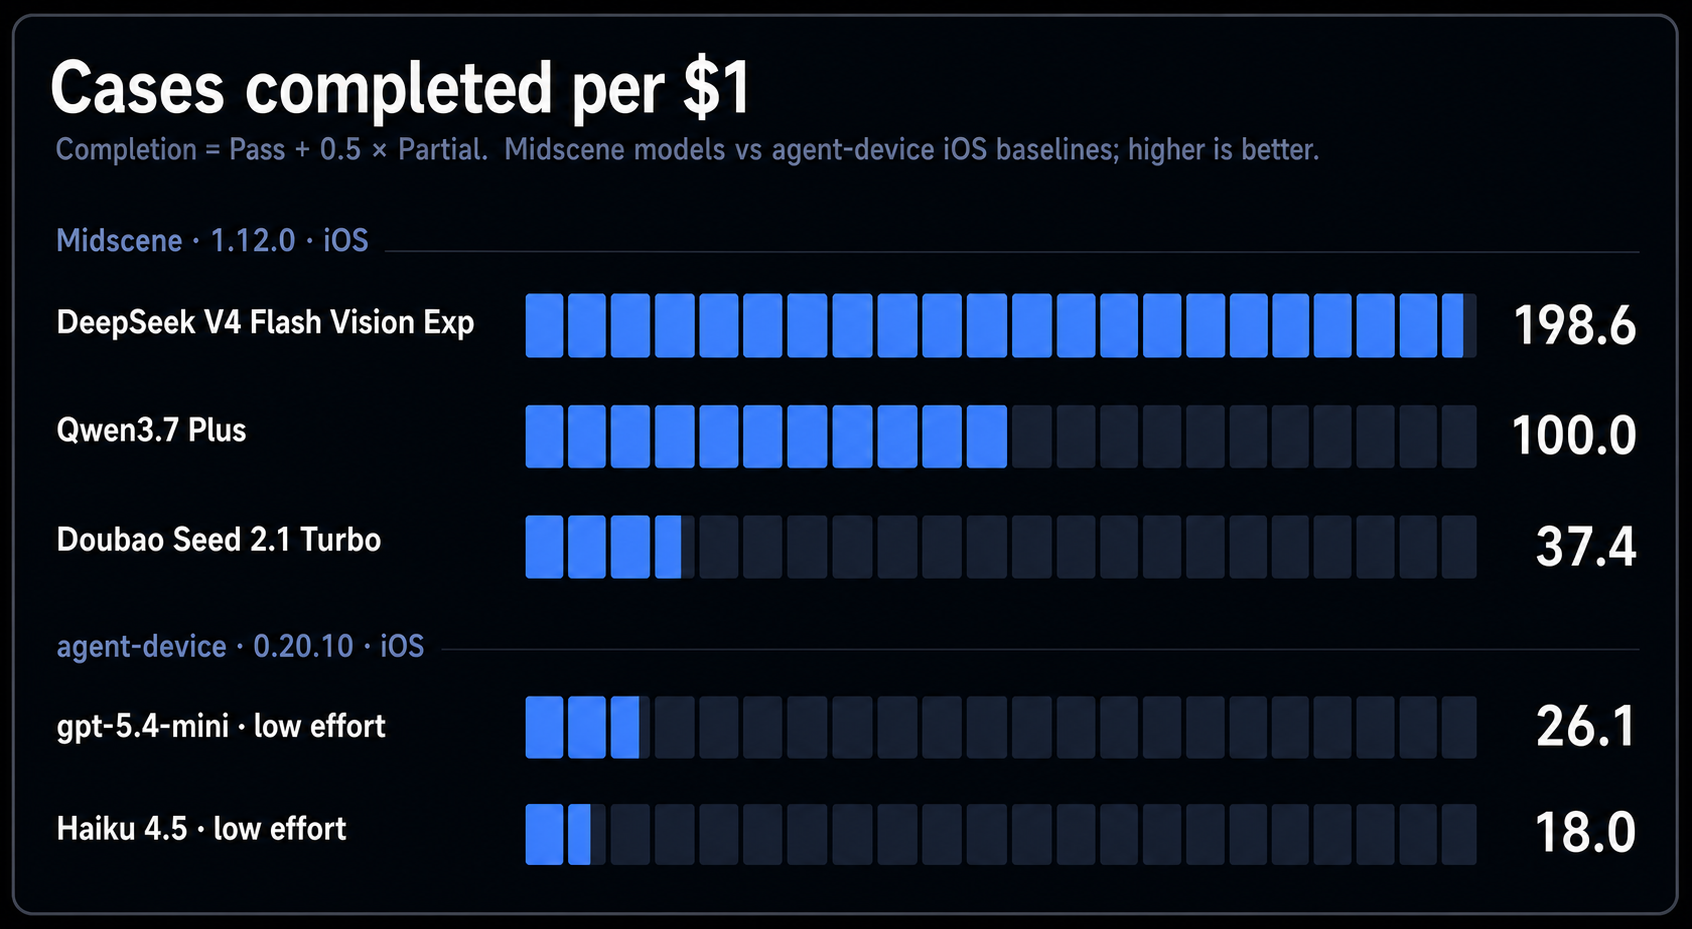
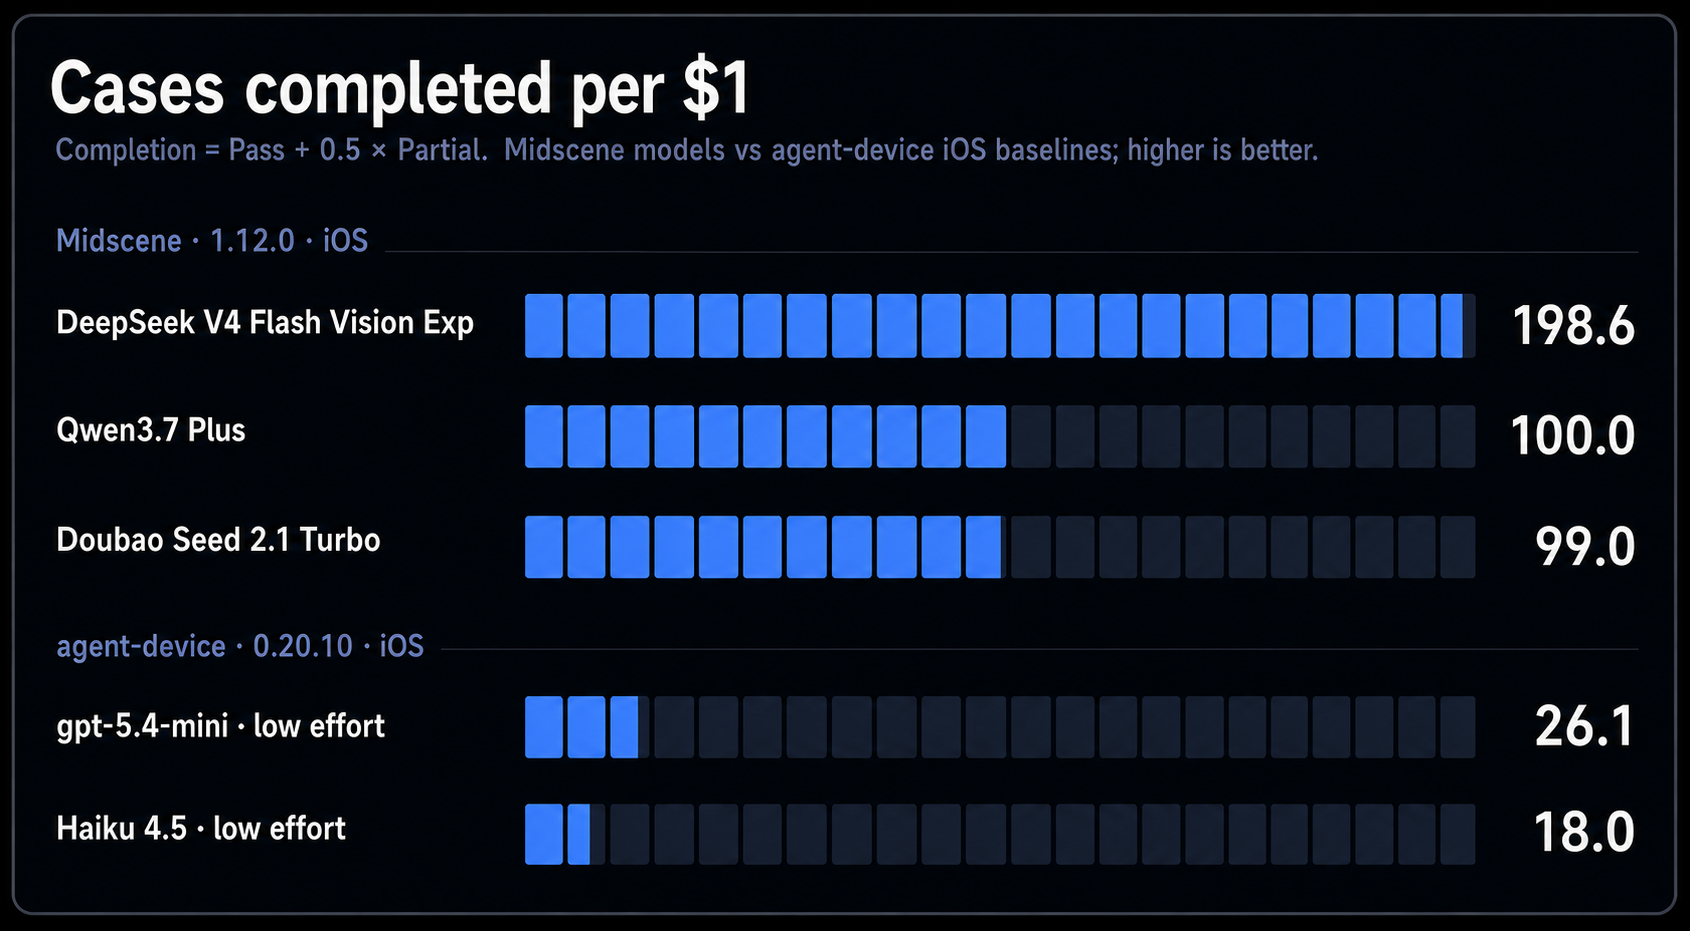
docs(site): use official Doubao pricing

diff --git a/apps/site/theme/components/app-control-bench-data.ts b/apps/site/theme/components/app-control-bench-data.ts
@@ -41,214 +41,219 @@ export const APP_CONTROL_BENCH_RUNS = [
       passCount: 58,
       partialCount: 1,
       failCount: 1,
-      totalUsd: 1.563245,
-      totalCny: 10.630066,
+      totalUsd: 0.591189,
+      totalCny: 4.020089,
     },
     tasks: [
-      { name: 'bsky-01', status: 'Pass', costUsd: 0.010709, costCny: 0.072821 },
-      { name: 'bsky-02', status: 'Pass', costUsd: 0.010704, costCny: 0.072787 },
-      { name: 'bsky-03', status: 'Pass', costUsd: 0.021735, costCny: 0.147798 },
-      { name: 'bsky-04', status: 'Pass', costUsd: 0.016339, costCny: 0.111105 },
-      { name: 'bsky-05', status: 'Pass', costUsd: 0.010782, costCny: 0.073318 },
-      { name: 'bsky-06', status: 'Pass', costUsd: 0.010927, costCny: 0.074304 },
-      { name: 'bsky-07', status: 'Pass', costUsd: 0.010864, costCny: 0.073875 },
-      { name: 'bsky-08', status: 'Pass', costUsd: 0.033915, costCny: 0.230622 },
-      { name: 'bsky-09', status: 'Pass', costUsd: 0.021985, costCny: 0.149498 },
-      { name: 'bsky-10', status: 'Pass', costUsd: 0.016428, costCny: 0.11171 },
-      { name: 'bsky-11', status: 'Pass', costUsd: 0.010665, costCny: 0.072522 },
-      { name: 'bsky-12', status: 'Pass', costUsd: 0.010699, costCny: 0.072753 },
-      { name: 'bsky-13', status: 'Pass', costUsd: 0.010715, costCny: 0.072862 },
-      { name: 'bsky-14', status: 'Pass', costUsd: 0.027723, costCny: 0.188516 },
-      { name: 'bsky-15', status: 'Pass', costUsd: 0.027758, costCny: 0.188754 },
-      { name: 'bsky-16', status: 'Pass', costUsd: 0.060796, costCny: 0.413413 },
-      { name: 'bsky-17', status: 'Pass', costUsd: 0.016237, costCny: 0.110412 },
-      { name: 'bsky-18', status: 'Pass', costUsd: 0.010649, costCny: 0.072413 },
-      { name: 'bsky-19', status: 'Pass', costUsd: 0.02188, costCny: 0.148784 },
-      { name: 'bsky-20', status: 'Pass', costUsd: 0.021912, costCny: 0.149002 },
-      { name: 'bsky-21', status: 'Pass', costUsd: 0.016242, costCny: 0.110446 },
-      { name: 'bsky-22', status: 'Pass', costUsd: 0.010634, costCny: 0.072311 },
-      { name: 'bsky-23', status: 'Pass', costUsd: 0.016158, costCny: 0.109874 },
-      { name: 'bsky-24', status: 'Pass', costUsd: 0.022026, costCny: 0.149777 },
-      { name: 'bsky-25', status: 'Fail', costUsd: 0.021704, costCny: 0.147587 },
-      { name: 'bsky-26', status: 'Pass', costUsd: 0.039553, costCny: 0.26896 },
-      { name: 'bsky-27', status: 'Pass', costUsd: 0.046112, costCny: 0.313562 },
-      { name: 'bsky-28', status: 'Pass', costUsd: 0.021821, costCny: 0.148383 },
-      { name: 'bsky-29', status: 'Pass', costUsd: 0.021806, costCny: 0.148281 },
-      { name: 'bsky-30', status: 'Pass', costUsd: 0.028036, costCny: 0.190645 },
+      { name: 'bsky-01', status: 'Pass', costUsd: 0.003806, costCny: 0.025883 },
+      { name: 'bsky-02', status: 'Pass', costUsd: 0.003802, costCny: 0.025853 },
+      { name: 'bsky-03', status: 'Pass', costUsd: 0.007892, costCny: 0.053665 },
+      { name: 'bsky-04', status: 'Pass', costUsd: 0.005953, costCny: 0.040482 },
+      { name: 'bsky-05', status: 'Pass', costUsd: 0.003871, costCny: 0.026324 },
+      { name: 'bsky-06', status: 'Pass', costUsd: 0.003999, costCny: 0.027194 },
+      { name: 'bsky-07', status: 'Pass', costUsd: 0.003944, costCny: 0.026816 },
+      { name: 'bsky-08', status: 'Pass', costUsd: 0.012998, costCny: 0.088389 },
+      { name: 'bsky-09', status: 'Pass', costUsd: 0.008115, costCny: 0.05518 },
+      { name: 'bsky-10', status: 'Pass', costUsd: 0.006033, costCny: 0.041022 },
+      { name: 'bsky-11', status: 'Pass', costUsd: 0.003768, costCny: 0.025625 },
+      { name: 'bsky-12', status: 'Pass', costUsd: 0.003798, costCny: 0.025826 },
+      { name: 'bsky-13', status: 'Pass', costUsd: 0.003812, costCny: 0.025922 },
+      { name: 'bsky-14', status: 'Pass', costUsd: 0.010357, costCny: 0.070427 },
+      { name: 'bsky-15', status: 'Pass', costUsd: 0.010388, costCny: 0.07064 },
+      { name: 'bsky-16', status: 'Pass', costUsd: 0.023987, costCny: 0.163112 },
+      { name: 'bsky-17', status: 'Pass', costUsd: 0.005864, costCny: 0.039873 },
+      { name: 'bsky-18', status: 'Pass', costUsd: 0.003755, costCny: 0.025535 },
+      { name: 'bsky-19', status: 'Pass', costUsd: 0.00802, costCny: 0.054535 },
+      { name: 'bsky-20', status: 'Pass', costUsd: 0.008049, costCny: 0.05473 },
+      { name: 'bsky-21', status: 'Pass', costUsd: 0.005868, costCny: 0.039903 },
+      { name: 'bsky-22', status: 'Pass', costUsd: 0.00374, costCny: 0.02543 },
+      { name: 'bsky-23', status: 'Pass', costUsd: 0.005794, costCny: 0.039399 },
+      { name: 'bsky-24', status: 'Pass', costUsd: 0.008151, costCny: 0.055426 },
+      { name: 'bsky-25', status: 'Fail', costUsd: 0.007865, costCny: 0.053485 },
+      { name: 'bsky-26', status: 'Pass', costUsd: 0.015152, costCny: 0.103036 },
+      { name: 'bsky-27', status: 'Pass', costUsd: 0.017394, costCny: 0.118279 },
+      { name: 'bsky-28', status: 'Pass', costUsd: 0.007969, costCny: 0.05419 },
+      { name: 'bsky-29', status: 'Pass', costUsd: 0.007956, costCny: 0.054103 },
+      { name: 'bsky-30', status: 'Pass', costUsd: 0.010632, costCny: 0.072296 },
       {
         name: 'element-01',
         status: 'Pass',
-        costUsd: 0.010586,
-        costCny: 0.071985,
+        costUsd: 0.003699,
+        costCny: 0.025151,
       },
       {
         name: 'element-02',
         status: 'Pass',
-        costUsd: 0.010705,
-        costCny: 0.072794,
+        costUsd: 0.003803,
+        costCny: 0.025859,
       },
       {
         name: 'element-03',
         status: 'Pass',
-        costUsd: 0.027417,
-        costCny: 0.186436,
+        costUsd: 0.010086,
+        costCny: 0.068588,
       },
-      { name: 'element-04', status: 'Pass', costUsd: 0.0161, costCny: 0.10948 },
+      {
+        name: 'element-04',
+        status: 'Pass',
+        costUsd: 0.005742,
+        costCny: 0.039045,
+      },
       {
         name: 'element-05',
         status: 'Pass',
-        costUsd: 0.016216,
-        costCny: 0.110269,
+        costUsd: 0.006567,
+        costCny: 0.044656,
       },
       {
         name: 'element-06',
         status: 'Partial',
-        costUsd: 0.254686,
-        costCny: 1.731865,
+        costUsd: 0.098819,
+        costCny: 0.671972,
       },
       {
         name: 'element-07',
         status: 'Pass',
-        costUsd: 0.01626,
-        costCny: 0.110568,
+        costUsd: 0.005885,
+        costCny: 0.040017,
       },
       {
         name: 'element-08',
         status: 'Pass',
-        costUsd: 0.027656,
-        costCny: 0.188061,
+        costUsd: 0.010296,
+        costCny: 0.070013,
       },
       {
         name: 'element-09',
         status: 'Pass',
-        costUsd: 0.010985,
-        costCny: 0.074698,
+        costUsd: 0.00405,
+        costCny: 0.027542,
       },
       {
         name: 'element-10',
         status: 'Pass',
-        costUsd: 0.046779,
-        costCny: 0.318097,
+        costUsd: 0.018708,
+        costCny: 0.127211,
       },
       {
         name: 'element-11',
         status: 'Pass',
-        costUsd: 0.016433,
-        costCny: 0.111744,
+        costUsd: 0.006759,
+        costCny: 0.045961,
       },
       {
         name: 'element-12',
         status: 'Pass',
-        costUsd: 0.016321,
-        costCny: 0.110983,
+        costUsd: 0.005936,
+        costCny: 0.040368,
       },
       {
         name: 'element-13',
         status: 'Pass',
-        costUsd: 0.028044,
-        costCny: 0.190699,
+        costUsd: 0.01064,
+        costCny: 0.072353,
       },
       {
         name: 'element-14',
         status: 'Pass',
-        costUsd: 0.016419,
-        costCny: 0.111649,
+        costUsd: 0.006023,
+        costCny: 0.040959,
       },
       {
         name: 'element-15',
         status: 'Pass',
-        costUsd: 0.022015,
-        costCny: 0.149702,
+        costUsd: 0.00814,
+        costCny: 0.055354,
       },
       {
         name: 'element-16',
         status: 'Pass',
-        costUsd: 0.022235,
-        costCny: 0.151198,
+        costUsd: 0.008334,
+        costCny: 0.056671,
       },
       {
         name: 'element-17',
         status: 'Pass',
-        costUsd: 0.021843,
-        costCny: 0.148532,
+        costUsd: 0.007988,
+        costCny: 0.054319,
       },
       {
         name: 'element-18',
         status: 'Pass',
-        costUsd: 0.022232,
-        costCny: 0.151178,
+        costUsd: 0.010501,
+        costCny: 0.071405,
       },
       {
         name: 'element-19',
         status: 'Pass',
-        costUsd: 0.047059,
-        costCny: 0.320001,
+        costUsd: 0.01823,
+        costCny: 0.123964,
       },
       {
         name: 'element-20',
         status: 'Pass',
-        costUsd: 0.010654,
-        costCny: 0.072447,
+        costUsd: 0.003759,
+        costCny: 0.025559,
       },
       {
         name: 'element-21',
         status: 'Pass',
-        costUsd: 0.029484,
-        costCny: 0.200491,
+        costUsd: 0.01191,
+        costCny: 0.08099,
       },
       {
         name: 'element-22',
         status: 'Pass',
-        costUsd: 0.040077,
-        costCny: 0.272524,
+        costUsd: 0.015616,
+        costCny: 0.106186,
       },
       {
         name: 'element-23',
         status: 'Pass',
-        costUsd: 0.021957,
-        costCny: 0.149308,
+        costUsd: 0.008091,
+        costCny: 0.055018,
       },
       {
         name: 'element-24',
         status: 'Pass',
-        costUsd: 0.033853,
-        costCny: 0.2302,
+        costUsd: 0.012943,
+        costCny: 0.088011,
       },
       {
         name: 'element-25',
         status: 'Pass',
-        costUsd: 0.016329,
-        costCny: 0.111037,
+        costUsd: 0.005945,
+        costCny: 0.040425,
       },
       {
         name: 'element-26',
         status: 'Pass',
-        costUsd: 0.010671,
-        costCny: 0.072563,
+        costUsd: 0.003772,
+        costCny: 0.025652,
       },
       {
         name: 'element-27',
         status: 'Pass',
-        costUsd: 0.040494,
-        costCny: 0.275359,
+        costUsd: 0.015984,
+        costCny: 0.108688,
       },
       {
         name: 'element-28',
         status: 'Pass',
-        costUsd: 0.027369,
-        costCny: 0.186109,
+        costUsd: 0.010043,
+        costCny: 0.068294,
       },
       {
         name: 'element-29',
         status: 'Pass',
-        costUsd: 0.027533,
-        costCny: 0.187224,
+        costUsd: 0.010188,
+        costCny: 0.069281,
       },
       {
         name: 'element-30',
         status: 'Pass',
-        costUsd: 0.027319,
-        costCny: 0.185769,
+        costUsd: 0.01,
+        costCny: 0.067997,
       },
     ],
   },

diff --git a/apps/site/tests/app-control-bench-data.test.ts b/apps/site/tests/app-control-bench-data.test.ts
@@ -12,8 +12,8 @@ const EXPECTED_SUMMARIES = {
     passCount: 58,
     partialCount: 1,
     failCount: 1,
-    totalUsd: 1.563245,
-    totalCny: 10.630066,
+    totalUsd: 0.591189,
+    totalCny: 4.020089,
   },
   'qwen-20260825': {
     averageDurationSeconds: 53.990117,
